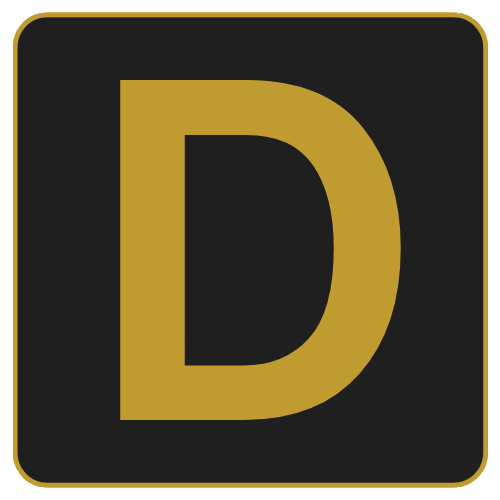
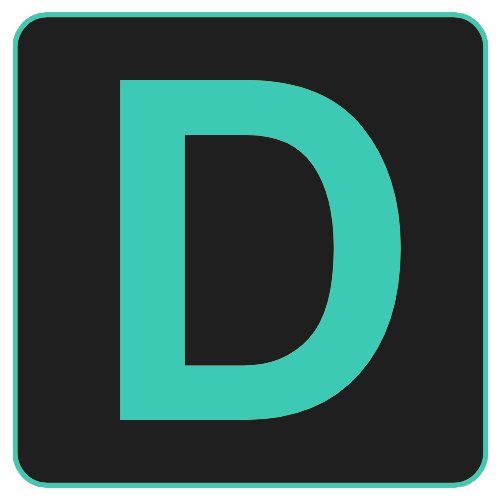
Versione 1.0.1
- Edited extension design (different for the two version);
- Edited database table;
- Added new function: Now when a dark pattern is found, the extension will give a short description about it.

Changed region(s): [[0.24, 0.15, 0.81, 0.84], [0.0, 0.0, 0.96, 0.96], [0.06, 0.06, 0.99, 0.99]]

diff --git a/popup.js b/popup.js
@@ -16,13 +16,15 @@ const currentWebsite = $("#CUR__Website");
 let currentIndex = 1;
 let maxIndex = 1;
 
+var msgList;
+
 //Retrieving all the elements of DB at the start
 retrieveAllDatabase();
+updateURL();
 updateTextList();
 
 //Updating Database when switch change status
 switchStatus.on("change", () => {
-	console.log("Stato Switch " + switchStatus.is(":checked"));
 	chrome.runtime.sendMessage({
 		message: "update",
 		payload: {
@@ -34,6 +36,7 @@ switchStatus.on("change", () => {
 		message: "content__retrieve",
 		payload: "switchValue",
 	});
+	updateURL();
 });
 
 listIncrement.on("click", (e) => {
@@ -56,12 +59,16 @@ chrome.runtime.onMessage.addListener((request, sender, sendResponse) => {
 	if (request.message.includes("retrieve_success")) {
 		//Retrieve Query
 		if (request.message.includes("switchValue")) {
-			// console.log("[DEBUG] " + request.payload.value);
 			$("#switch__status").prop("checked", request.payload.value);
 		}
 
 		if (request.message.includes("numDarkPatternIdentified")) {
 			updateCounterList(request.payload.value);
+		}
+
+		if (request.message.includes("msgList")) {
+			console.log("MSGLIST ", msgList);
+			msgList = request.payload.value;
 		}
 	}
 });
@@ -85,14 +92,11 @@ function nextItemList() {
 		} else {
 			currentIndex = currentIndex + 1;
 		}
-		console.log("Current " + currentIndex);
-
+		//Send Message to Content with new value [currentIndex]
 		scrollToElement(currentIndex);
 
 		updateTextList();
 	}
-
-	//Send Message to Content with new value [currentIndex]
 }
 
 function previousItemList() {
@@ -104,8 +108,7 @@ function previousItemList() {
 		} else {
 			currentIndex = currentIndex - 1;
 		}
-		console.log("Current " + currentIndex);
-
+		//Send Message to Content with new value [currentIndex]
 		scrollToElement(currentIndex);
 
 		updateTextList();
@@ -114,22 +117,32 @@ function previousItemList() {
 
 function updateTextList() {
 	if (switchStatus.is(":checked")) {
+		updateURL();
 		let newString = currentIndex + " out of " + maxIndex;
 		listContent.text(newString);
-		darkPattern_Type.text("Hidden Information");
+		console.log("INDEX ", currentIndex);
+		if (currentIndex > 0) {
+			darkPattern_Type.text(msgList[currentIndex - 1]);
+		} else {
+			darkPattern_Type.text("...");
+		}
+	} else {
+		listContent.text("Activate Switch to track DP");
+		darkPattern_Type.text(" ");
+	}
+}
 
+function updateURL() {
+	if (switchStatus.is(":checked")) {
 		//Update Current Site URL
 		chrome.tabs.query({ active: true, lastFocusedWindow: true }, (tabs) => {
 			let url = tabs[0].url;
 			var page = url.substring(0, url.indexOf("/", 9) + 1);
-			console.log(url);
-			console.log(page);
 			currentWebsite.text(page);
+			console.log("URL ", page);
 		});
 	} else {
-		listContent.text("Activate Switch to track DP");
-		darkPattern_Type.text(" ");
-		currentWebsite.text("...");
+		currentWebsite.text(" ");
 	}
 }
 
@@ -158,16 +171,14 @@ function retrieveAllDatabase() {
 		message: "retrieve",
 		payload: "darkPatternIdentified",
 	});
-}
 
-function testPrint() {
-	console.log("Max: " + maxIndex);
-	console.log("current" + currentIndex);
+	chrome.runtime.sendMessage({
+		message: "retrieve",
+		payload: "msgList",
+	});
 }
 
 function scrollToElement(element) {
-	console.log("TEST " + element);
-
 	chrome.tabs.query({ currentWindow: true, active: true }, function (tabs) {
 		var activeTab = tabs[0];
 		chrome.tabs.sendMessage(activeTab.id, {

diff --git a/content.js b/content.js
@@ -42,6 +42,8 @@ $(window).on("load", () => {
 			pos = request.payload;
 			if (pos > 0) {
 				verifiedElements[pos - 1].scrollIntoView();
+			} else {
+				window.scrollTo(0, 0);
 			}
 		}
 	});
@@ -50,7 +52,7 @@ $(window).on("load", () => {
 	//updateElementList(45, null); => Test Call badge update
 });
 
-function updateElementList(numElements, elements) {
+function updateElementList(numElements, elements, msg) {
 	if (switchValue) {
 		chrome.runtime.sendMessage({
 			message: "update",
@@ -68,10 +70,19 @@ function updateElementList(numElements, elements) {
 				value: elements,
 			},
 		});
+
+		//Send a reuqest to DB to save the information hidden that have been found
+		chrome.runtime.sendMessage({
+			message: "update",
+			payload: {
+				name: "msgList",
+				value: msg,
+			},
+		});
 		//Send a request to DB to update the value of the numOfDP
 		updateBadge(numElements);
 	} else {
-		updateBadge("X");
+		updateBadge("");
 	}
 }
 
@@ -90,13 +101,18 @@ function updateBadge(newValue) {
 		Return: an object containing [numDarkpatternIdentified (INT) , darkpatternIdentified (LIST)]
 */
 function findDarkPattern() {
-	const elements = verifyElements();
+	const checkedElements = verifyElements();
+
+	let elements = checkedElements[0];
+	let msg = checkedElements[1];
+
+	console.log(elements.length === msg.length);
 
 	if (switchValue) {
 		elements.forEach((elem) => {
 			elem.style.border = "2px solid red";
 		});
-		updateElementList(elements.length, elements);
+		updateElementList(elements.length, elements, msg);
 	} else {
 		elements.forEach((elem) => {
 			elem.style.border = "none";
@@ -110,6 +126,7 @@ function verifyElements() {
 	const links = document.querySelectorAll("a");
 
 	verifiedElements = [];
+	msgList = [];
 
 	buttons.forEach((elem) => {
 		let computedStyle = window.getComputedStyle(elem);
@@ -128,10 +145,13 @@ function verifyElements() {
 	});
 
 	links.forEach((elem) => {
-		if (textComparisonList.includes(elem.text)) {
-			verifiedElements.push(elem);
-		}
+		textComparisonList.forEach((obj) => {
+			if (obj.name === elem.text) {
+				verifiedElements.push(elem);
+				msgList.push(obj.msg);
+			}
+		});
 	});
 
-	return verifiedElements;
+	return [verifiedElements, msgList];
 }

diff --git a/style.css b/style.css
@@ -9,7 +9,7 @@ Colori usati:
 :root{
     --background: #1f1f1f;
     --div_bg: #393939;
-    --gold: #bf9b30;
+    --main: #3DCAB5;
     --span: black;
     --text: white;
     --text__footer: gray;
@@ -43,7 +43,7 @@ body{
 }
 
 .title{
-  color: var(--gold);
+  color: var(--main);
   margin-left: 7px;
 }
 
@@ -55,7 +55,7 @@ body{
 /* MAIN SECTION*/
 .main__section{
     height: 49%;
-    border: 2px solid var(--gold);
+    border: 2px solid var(--main);
     margin-top: 5px;
     background-color: var(--div_bg);
     border-radius: 6px;
@@ -80,13 +80,21 @@ body{
 #list__inc , #list__dec {
     margin: 10px;
     text-decoration: none;
-    color: var(--gold);
+    color: var(--main);
     font-weight: bold;
     font-size: 20px;
     cursor: pointer;
 }
 
 #DP_Type{
+    text-decoration: none;
+    font-weight: 500;
+    color: var(--text);
+    display: flex;
+    justify-content: center;
+}
+
+#DP_Type-Title{
     text-decoration: none;
     font-weight: 500;
     color: var(--text);
@@ -103,7 +111,7 @@ body{
     margin-top: 5px;
     font-weight: 4000;
     font-size: large;
-    color: var(--gold);
+    color: var(--main);
 }
 
 /* FOOTER SECTION */
@@ -145,7 +153,7 @@ hr.solid{
     width: 42px;
     height: 20px;
     box-shadow: rgba(0, 0, 0, 0.62) 0px 0px 5px inset, rgba(0, 0, 0, 0.21) 0px 0px 0px 24px inset,
-        var(--gold) 0px 0px 0px 0px inset, rgba(224, 224, 224, 0.45) 0px 1px 0px 0px;
+        var(--main) 0px 0px 0px 0px inset, rgba(224, 224, 224, 0.45) 0px 1px 0px 0px;
   }
   
   .slider::after {
@@ -164,7 +172,7 @@ hr.solid{
   }
   
   .switch input[type="checkbox"]:checked + .slider {
-    box-shadow: rgba(0, 0, 0, 0.62) 0px 0px 5px inset, var(--gold) 0px 0px 0px 2px inset, var(--gold) 0px 0px 0px 24px inset,
+    box-shadow: rgba(0, 0, 0, 0.62) 0px 0px 5px inset, var(--main) 0px 0px 0px 2px inset, var(--main) 0px 0px 0px 24px inset,
           rgba(224, 224, 224, 0.45) 0px 1px 0px 0px;
   }
   

diff --git a/background.js b/background.js
@@ -1,11 +1,11 @@
 console.log("Esecuzione Background Script");
 /*
     !TODO: Implementare Database: indexedDB
-    !TODO:  Inviare una richiesta al 'Popup' per aggiornare Badge [Numero di DP Individuati]
+    !TODO: Inviare una richiesta al 'Popup' per aggiornare Badge [Numero di DP Individuati]
     !TODO: Implementare metodi: Inserimento, Cancellazione, Modifica, Retrieve Dati 
-    !TODO:  Implementare Sistema Messagistica: Content <=> Background , Popup <=> Background
-    !TODO:  Implementare Promise nei metodi del Database
-	!TODO:  Implementare per ogni richiesta al DB il send per il content script
+    !TODO: Implementare Sistema Messagistica: Content <=> Background , Popup <=> Background
+    !TODO: Implementare Promise nei metodi del Database
+	!TODO: Implementare per ogni richiesta al DB il send per il content script
 */
 
 chrome.runtime.onMessage.addListener((request, sender, sendResponse) => {
@@ -82,6 +82,10 @@ let defaultValues = [
 		name: "textComparison",
 		value: {},
 	},
+	{
+		name: "msgList",
+		value: null,
+	},
 ];
 
 let textComparisonArray = fetch("common.json")
@@ -92,8 +96,11 @@ let textComparisonArray = fetch("common.json")
 		return response.json();
 	})
 	.then((jsonObject) => {
+<<<<<<< Updated upstream
 		console.log(jsonObject.TextComparison.name);
 		console.log(jsonObject.TextComparison.msg);
+=======
+>>>>>>> Stashed changes
 		const setText = defaultValues.map((obj) => {
 			if (obj.name === "textComparison") {
 				obj.value = jsonObject.TextComparison;

diff --git a/main.html b/main.html
@@ -18,7 +18,10 @@
 		<div class="header">
 			<div class="logo">
 				<img src="images/icon.png" class="icon" alt="icon" />
-				<h6 class="title">Dark Pattern<br />Identifier</h6>
+				<h6 class="title">
+					<div id="DP_Type-Title">Hidden Information</div>
+					Identifier
+				</h6>
 			</div>
 
 			<div class="switch__cont">
